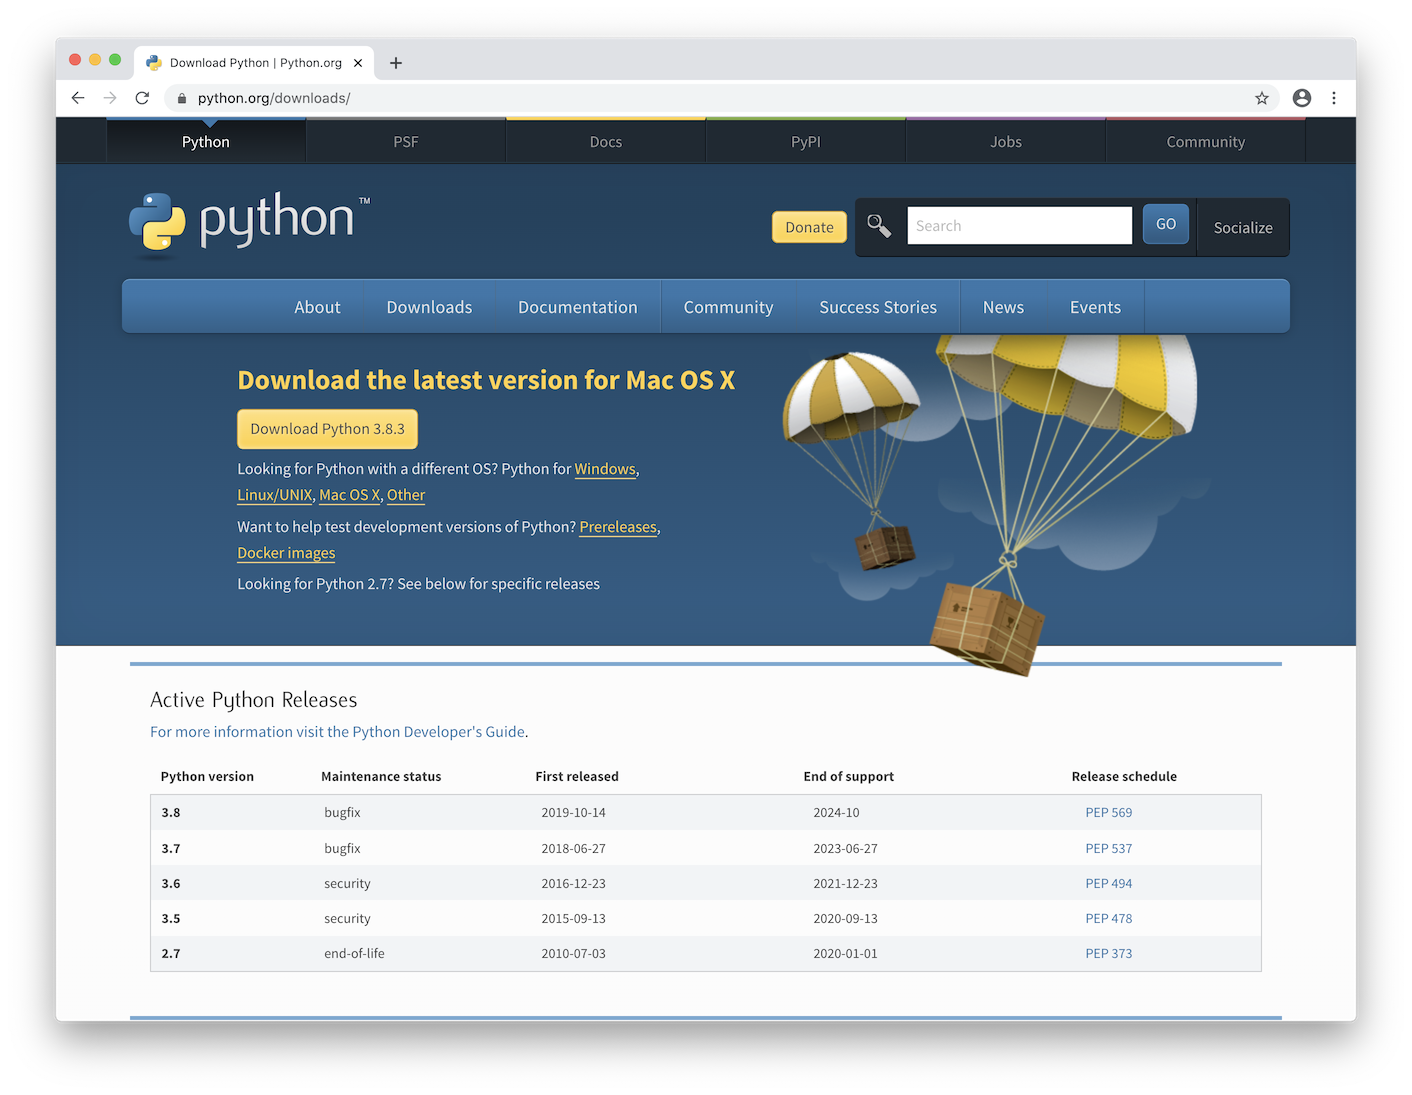
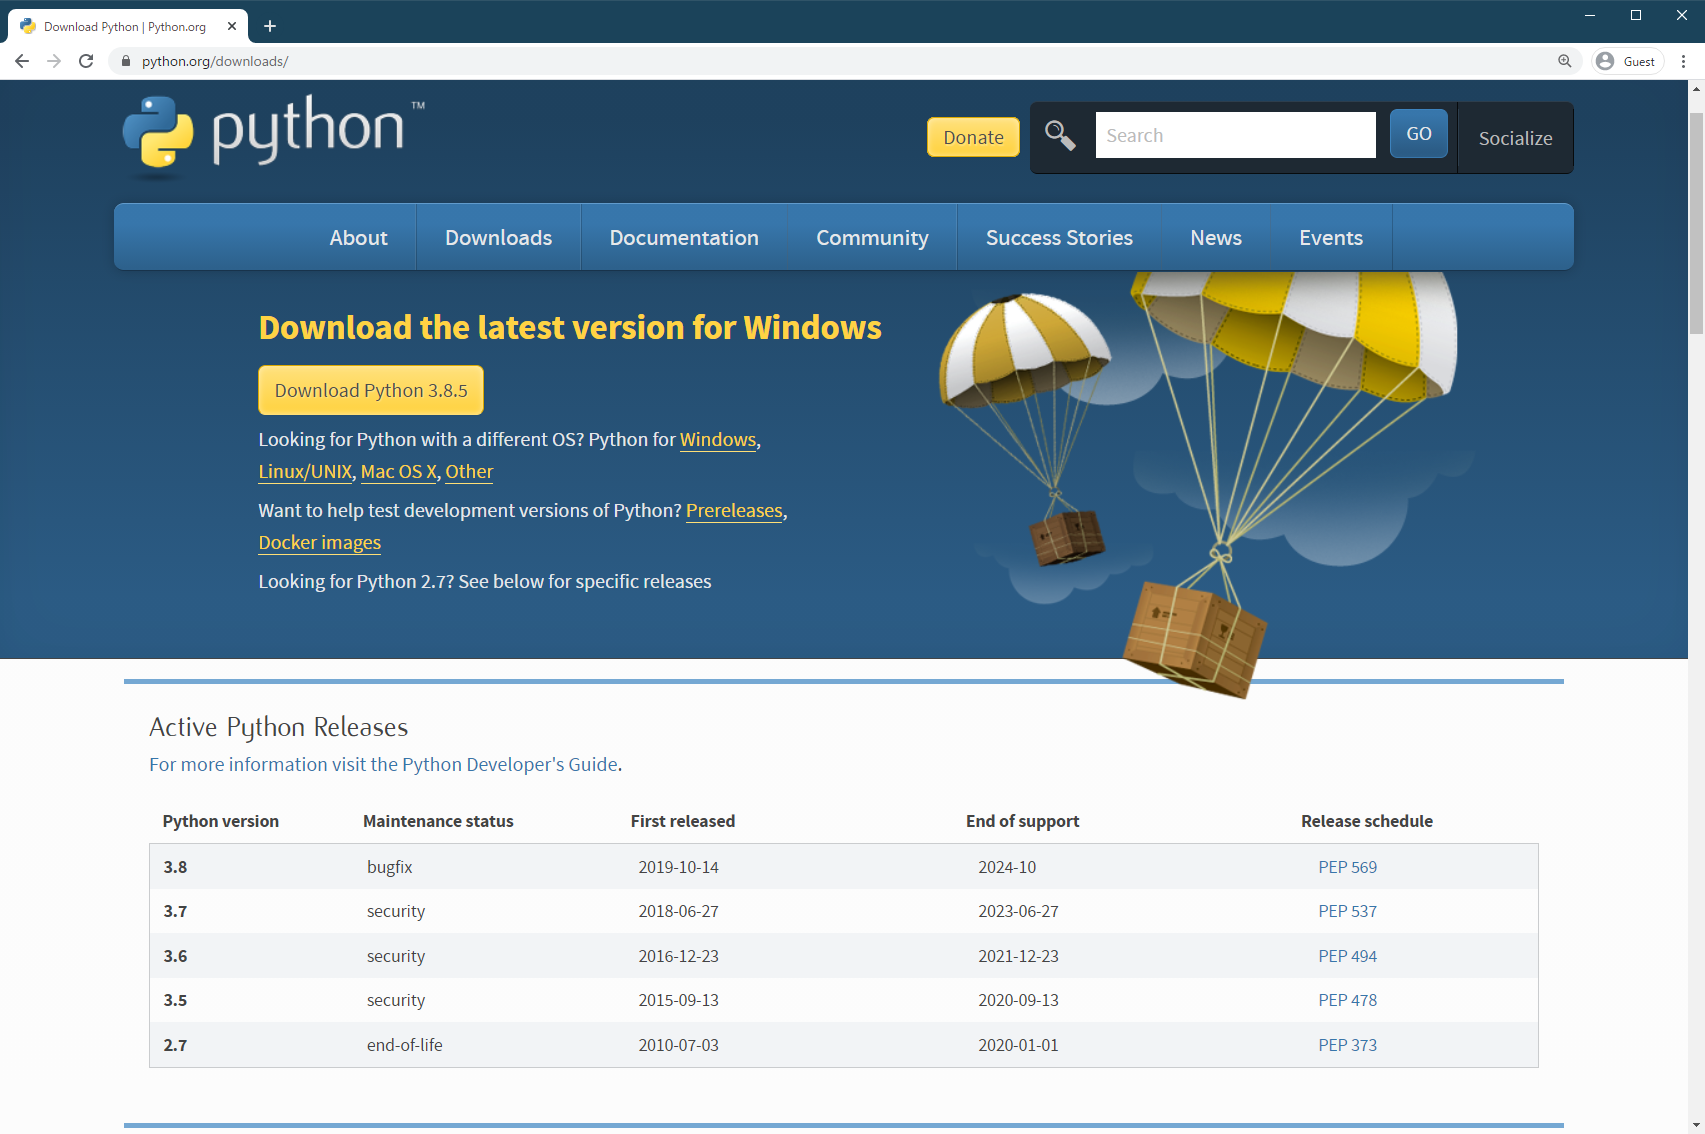
update for osc2020hiro

diff --git a/osc2020hiro/PITCHME.md b/osc2020hiro/PITCHME.md
@@ -1,6 +1,6 @@
 ## Python開発環境の整え方
 
-2020年9月14日 / OSC Online/Hiroshima
+2020年9月19日 / OSC Online/Hiroshima
 
 清水川貴之
 
@@ -35,15 +35,13 @@
 
 ---?include=assets/shimizukawa.md
 
-+++?image=osc2020hiro/images/hokkaido.png&position=bottom&size=auto 50%
++++?image=osc2020hiro/images/hiroshima.png&position=bottom&size=auto 50%
 
 @snap[north span-100]
 ## 私と広島
 
 * OCS 2020 Hiroshimaに初参加
 @snapend
-
-+++?image=osc2020hiro/images/osc2019do.jpg&size=auto 90%
 
 ---?include=assets/pyconjp2020.md
 
@@ -69,7 +67,7 @@
 
 ## ミーティングにも来てね
 
-* F会場で16:15〜17:00
+* C会場で14:00〜14:45
 * セミナーの質疑応答など
 
 ---
@@ -90,7 +88,7 @@
 
 * [`www.python.org/downloads`](https://www.python.org/downloads/)から公式版をインストール
   * WindowsはPATH設定のチェックを忘れずに
-* 最新バージョンは3.8.3
+* 最新バージョンは3.8.5
 * 2020年10月に3.9がリリース予定
 
 +++?image=osc2020hiro/images/python-downloads.png&size=auto 100%
@@ -622,7 +620,7 @@ $ python3 -m pdb sample.py
 
 ## ミーティングにも来てね
 
-* F会場で16:15〜17:00
+* C会場で14:00〜14:45
 * セミナーの質疑応答など
 
 +++

diff --git a/assets/pyconjp2020.md b/assets/pyconjp2020.md
@@ -17,15 +17,14 @@
 - [`pycon.jp/2020`](https://pycon.jp/2020/)
 - カンファレンス: 2020年8月28日(金)、29日(土)
 - 会場: オンライン
-- スタッフ、スポンサー募集中
 
 +++
 
-## PyCon JP 2019の様子
+## PyCon JP 2020の様子
 
-- ポスターセッション(左)、キーノート(右)
+- クロージング後の集合写真
 
-![PyCon JP 2019 Photo](assets/images/pyconjp2019photo.jpg)
+![PyCon JP 2020 Photo](assets/images/pyconjp2020photo.jpg)
 
 +++
 

diff --git a/assets/shimizukawa.md b/assets/shimizukawa.md
@@ -13,5 +13,5 @@
 
 ### Python本書いてます
 
-![書影](assets/images/shimizukawa-books.png)
+![書影](assets/images/shimizukawa-books-2020.png)
 
